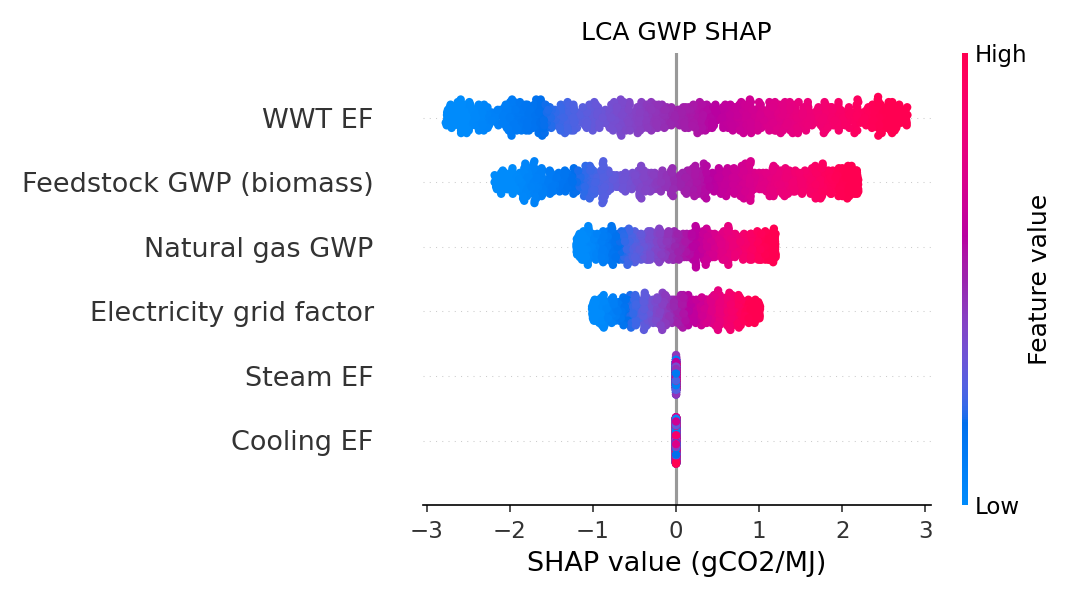
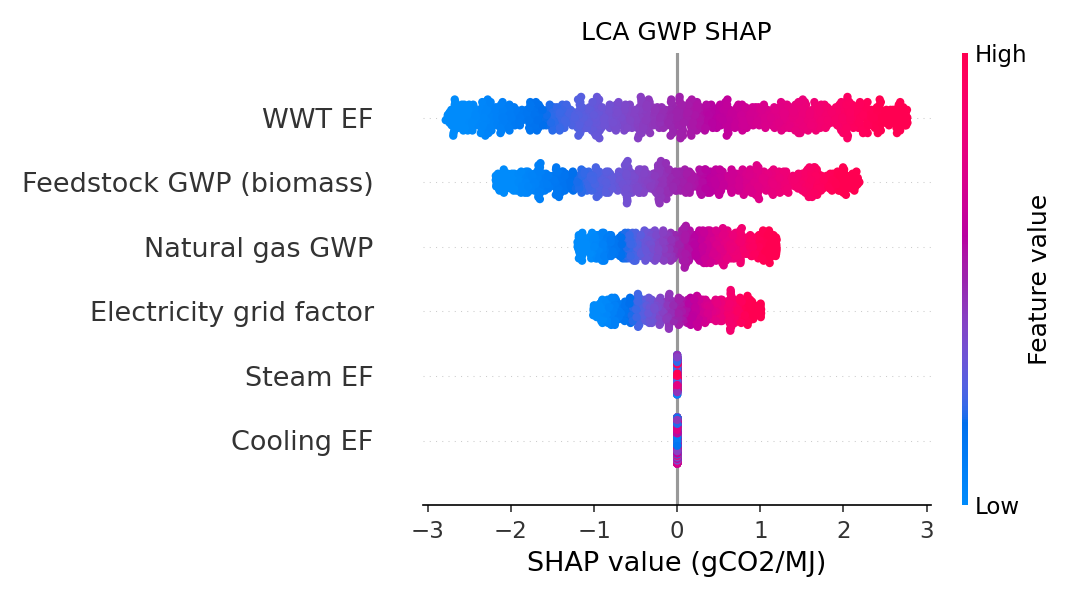
SHAP from LCA

diff --git a/sa/LCA_sensitivity_variables.md b/sa/LCA_sensitivity_variables.md
@@ -6,13 +6,13 @@ Date: 2026-07-31.
 
 ## Variables IN USE
 
-| #   | Variable (code)                                                                                 | Rationale                                                         | Range                                 | Citations                                                 |
-| --- | ----------------------------------------------------------------------------------------------- | ----------------------------------------------------------------- | ------------------------------------- | --------------------------------------------------------- |
-| 1   | Feedstock GWP — `GWP_biomass` (0.1772), `LCA.BM`                                                | Biomass cultivation/collection often top GHG contributor          | ±20–50%                               | D'Ascenzo 2024; Fitriasari 2023; Arfan 2023               |
-| 3   | Electricity grid factor — `EL_GRID` (0.674) ✅ integrated into OAT (`LCA_OAT_SAF.m`), replaces old 5-scenario structure | Drives GWP; grid decarbonization lever | grid ↔ renewable (0.016–0.674 kg/kWh) | Rojas-Michaga 2023 (Monte Carlo); npj Sust. Mobility 2026 |
-| 5   | Natural gas — `GWP_NG` (0.2221), `NG_kg`                                                        | Process heat / feed                                               | ±20%                                  | Almena 2024                                               |
-| 6   | Co-product allocation method — mass vs energy (`ratio_SAF`, /42, /48.168)                       | Method choice shifts SAF burden materially                        | energy ↔ mass ↔ system expansion      | Batten 2024; Osman 2024 (review)                          |
-| 7   | Utility emission factors — `STEAM` (0.1186), `COOL` (7.05e-5), `WWT` (0.431)                    | Secondary but cheap to test                                       | ±20%                                  | Fitriasari 2023                                           |
+| #   | Variable (code)                                                                                                        | Rationale                                                | Range                                 | Citations                                                 |
+| --- | ---------------------------------------------------------------------------------------------------------------------- | -------------------------------------------------------- | ------------------------------------- | --------------------------------------------------------- |
+| 1   | Feedstock GWP — `GWP_biomass` (0.1772), `LCA.BM`                                                                       | Biomass cultivation/collection often top GHG contributor | ±20–50%                               | D'Ascenzo 2024; Fitriasari 2023; Arfan 2023               |
+| 3   | Electricity grid factor — `EL_GRID` (0.674) ✅ integrated into OAT (`LCA_OAT_SAF.m`), replaces old 5-scenario structure | Drives GWP; grid decarbonization lever                   | grid ↔ renewable (0.016–0.674 kg/kWh) | Rojas-Michaga 2023 (Monte Carlo); npj Sust. Mobility 2026 |
+| 5   | Natural gas — `GWP_NG` (0.2221), `NG_kg`                                                                               | Process heat / feed                                      | ±20%                                  | Almena 2024                                               |
+| 6   | Co-product allocation method — mass vs energy (`ratio_SAF`, /42, /48.168)                                              | Method choice shifts SAF burden materially               | energy ↔ mass ↔ system expansion      | Batten 2024; Osman 2024 (review)                          |
+| 7   | Utility emission factors — `STEAM` (0.1186), `COOL` (7.05e-5), `WWT` (0.431)                                           | Secondary but cheap to test                              | ±20%                                  | Fitriasari 2023                                           |
 
 ## Variables ON HOLD
 

diff --git a/sa/RESULTS_ijk_catalystOPEX.md b/sa/RESULTS_ijk_catalystOPEX.md
@@ -18,14 +18,14 @@ validated to reproduce each published MSP to 0.000%.
 Catalyst OPEX raises MSP by ~0.03–0.04 % — negligible.
 
 ## Tornado swing (|MSP_high − MSP_low|, $/kg), ranked
-| parameter | range | i | j | k |
-|---|---|---|---|---|
-| Feedstock cost | ×0.5–1.5 | 0.846 | 0.698 | 0.610 |
-| Discount rate | 0.08–0.20 | 0.247 | 0.202 | 0.180 |
-| CAPEX multiplier | ×0.7–1.3 | 0.210 | 0.173 | 0.153 |
-| Plant life | 10–20 yr | 0.117 | 0.096 | 0.085 |
-| Natural gas price | ×0.5–1.5 | 0.043 | 0.032 | 0.031 |
-| Catalyst lifetime | 1–5 yr | 0.0012 | 0.0010 | 0.0009 |
+| parameter         | range     | i      | j      | k      |
+| ----------------- | --------- | ------ | ------ | ------ |
+| Feedstock cost    | ×0.5–1.5  | 0.846  | 0.698  | 0.610  |
+| Discount rate     | 0.08–0.20 | 0.247  | 0.202  | 0.180  |
+| CAPEX multiplier  | ×0.7–1.3  | 0.210  | 0.173  | 0.153  |
+| Plant life        | 10–20 yr  | 0.117  | 0.096  | 0.085  |
+| Natural gas price | ×0.5–1.5  | 0.043  | 0.032  | 0.031  |
+| Catalyst lifetime | 1–5 yr    | 0.0012 | 0.0010 | 0.0009 |
 
 ## Findings
 - **Feedstock cost dominates**, then discount rate ≈ CAPEX, then plant life. Same ranking all three cases.
